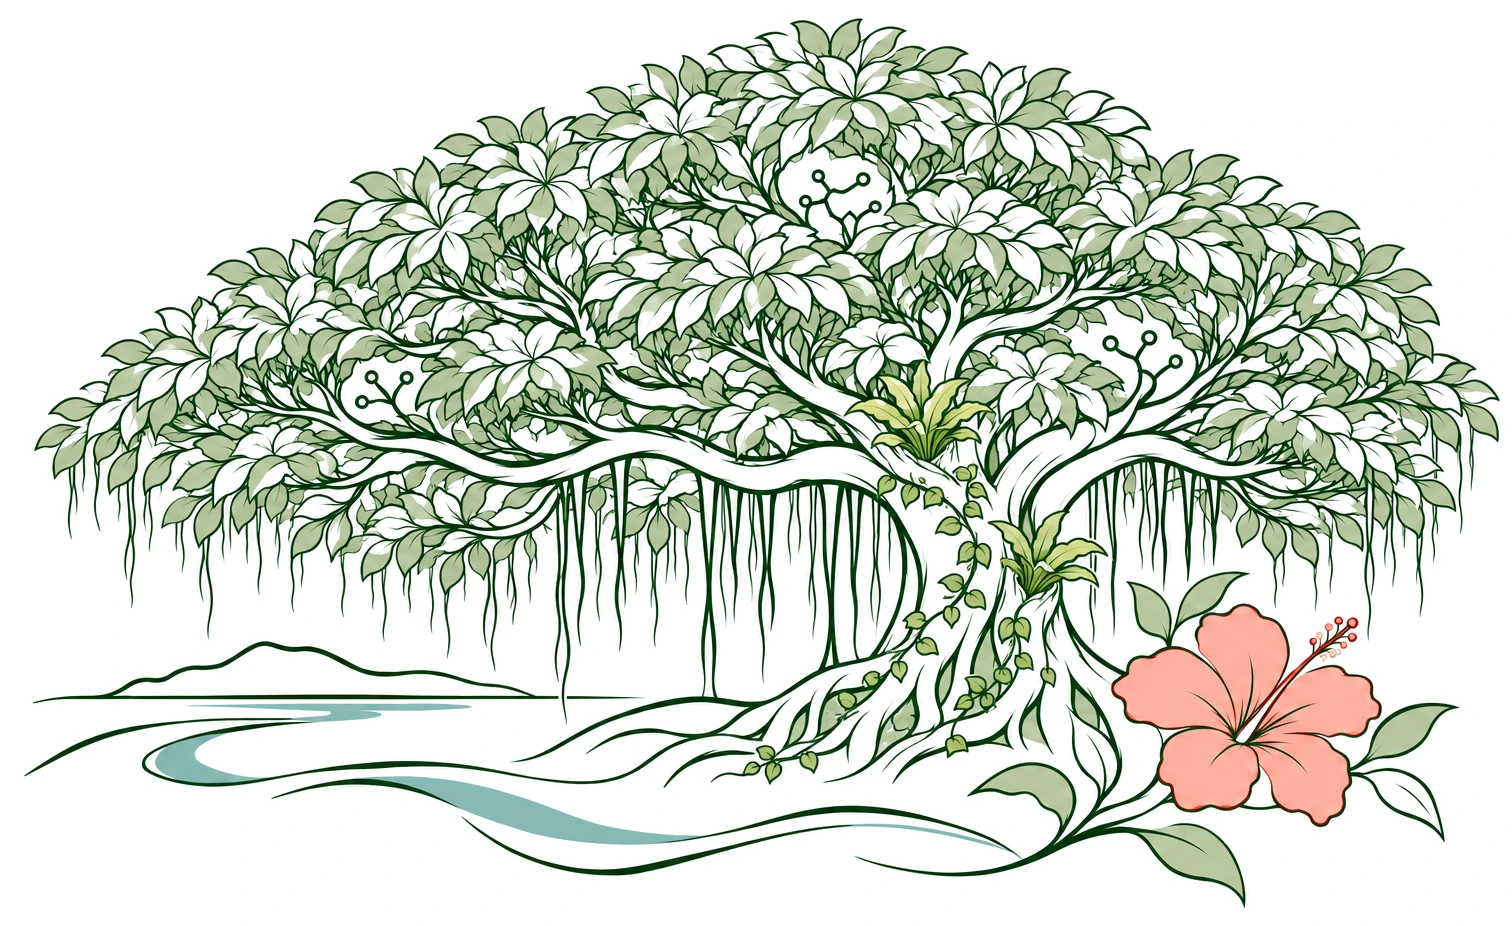
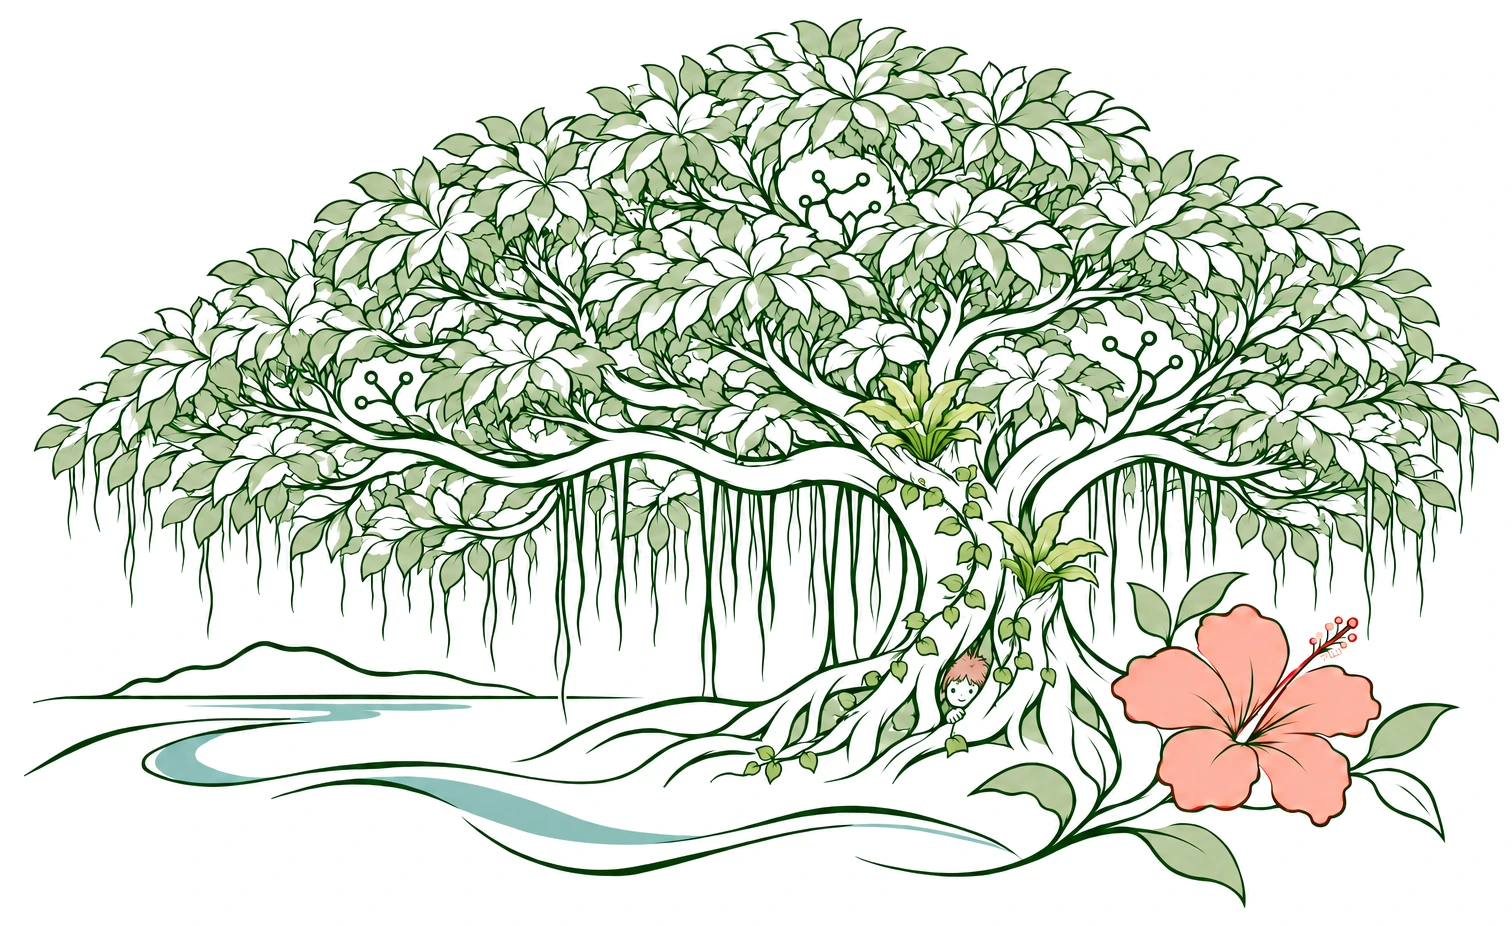
キービジュアルをキジムナー（淡い赤髪）の版に差し替え

diff --git a/index.html b/index.html
@@ -44,7 +44,7 @@
 <div class="wrap">
 <picture>
 <source srcset="assets/img/keyvisual.webp" type="image/webp">
-<img class="hero-art" src="assets/img/keyvisual.jpg" alt="気根を垂らしたガジュマルの大樹とハイビスカス、遠くに島の見える海を描いた線画" width="1512" height="926">
+<img class="hero-art" src="assets/img/keyvisual.jpg" alt="気根を垂らしたガジュマルの大樹と、根元からのぞくキジムナー、ハイビスカス、遠くに島の見える海を描いた線画" width="1512" height="926">
 </picture>
 <div class="hero-text">
 <p class="hero-sub">Okinawa LRMI</p>

diff --git a/_tools/build.py b/_tools/build.py
@@ -189,7 +189,7 @@ def build_index():
 <div class="wrap">
 <picture>
 <source srcset="assets/img/keyvisual.webp" type="image/webp">
-<img class="hero-art" src="assets/img/keyvisual.jpg" alt="気根を垂らしたガジュマルの大樹とハイビスカス、遠くに島の見える海を描いた線画" width="1512" height="926">
+<img class="hero-art" src="assets/img/keyvisual.jpg" alt="気根を垂らしたガジュマルの大樹と、根元からのぞくキジムナー、ハイビスカス、遠くに島の見える海を描いた線画" width="1512" height="926">
 </picture>
 <div class="hero-text">
 <p class="hero-sub">Okinawa LRMI</p>
